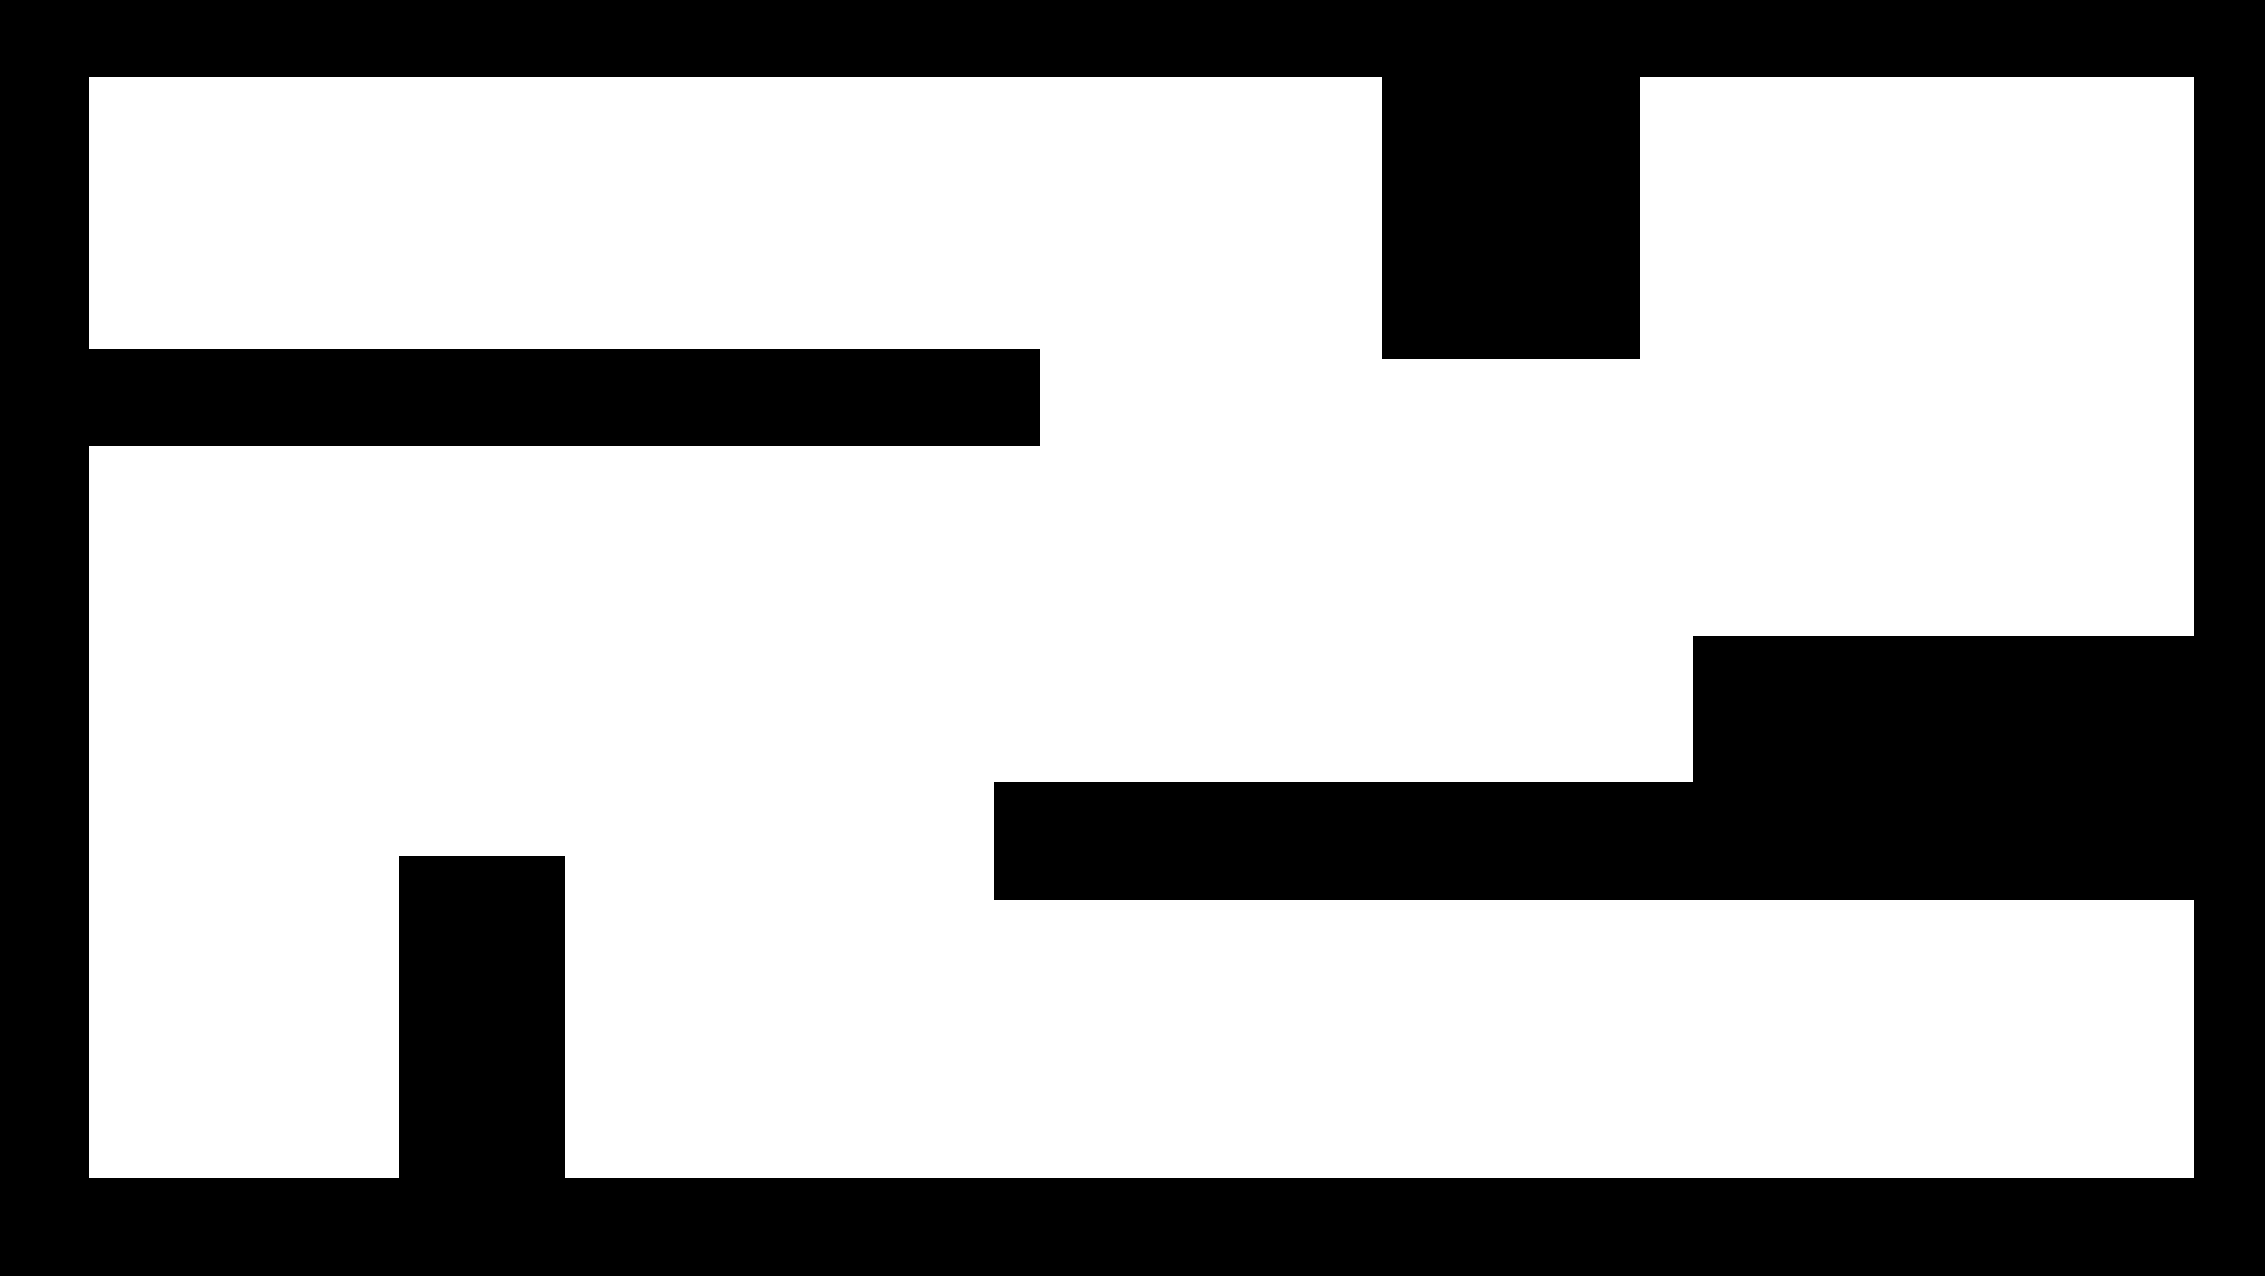
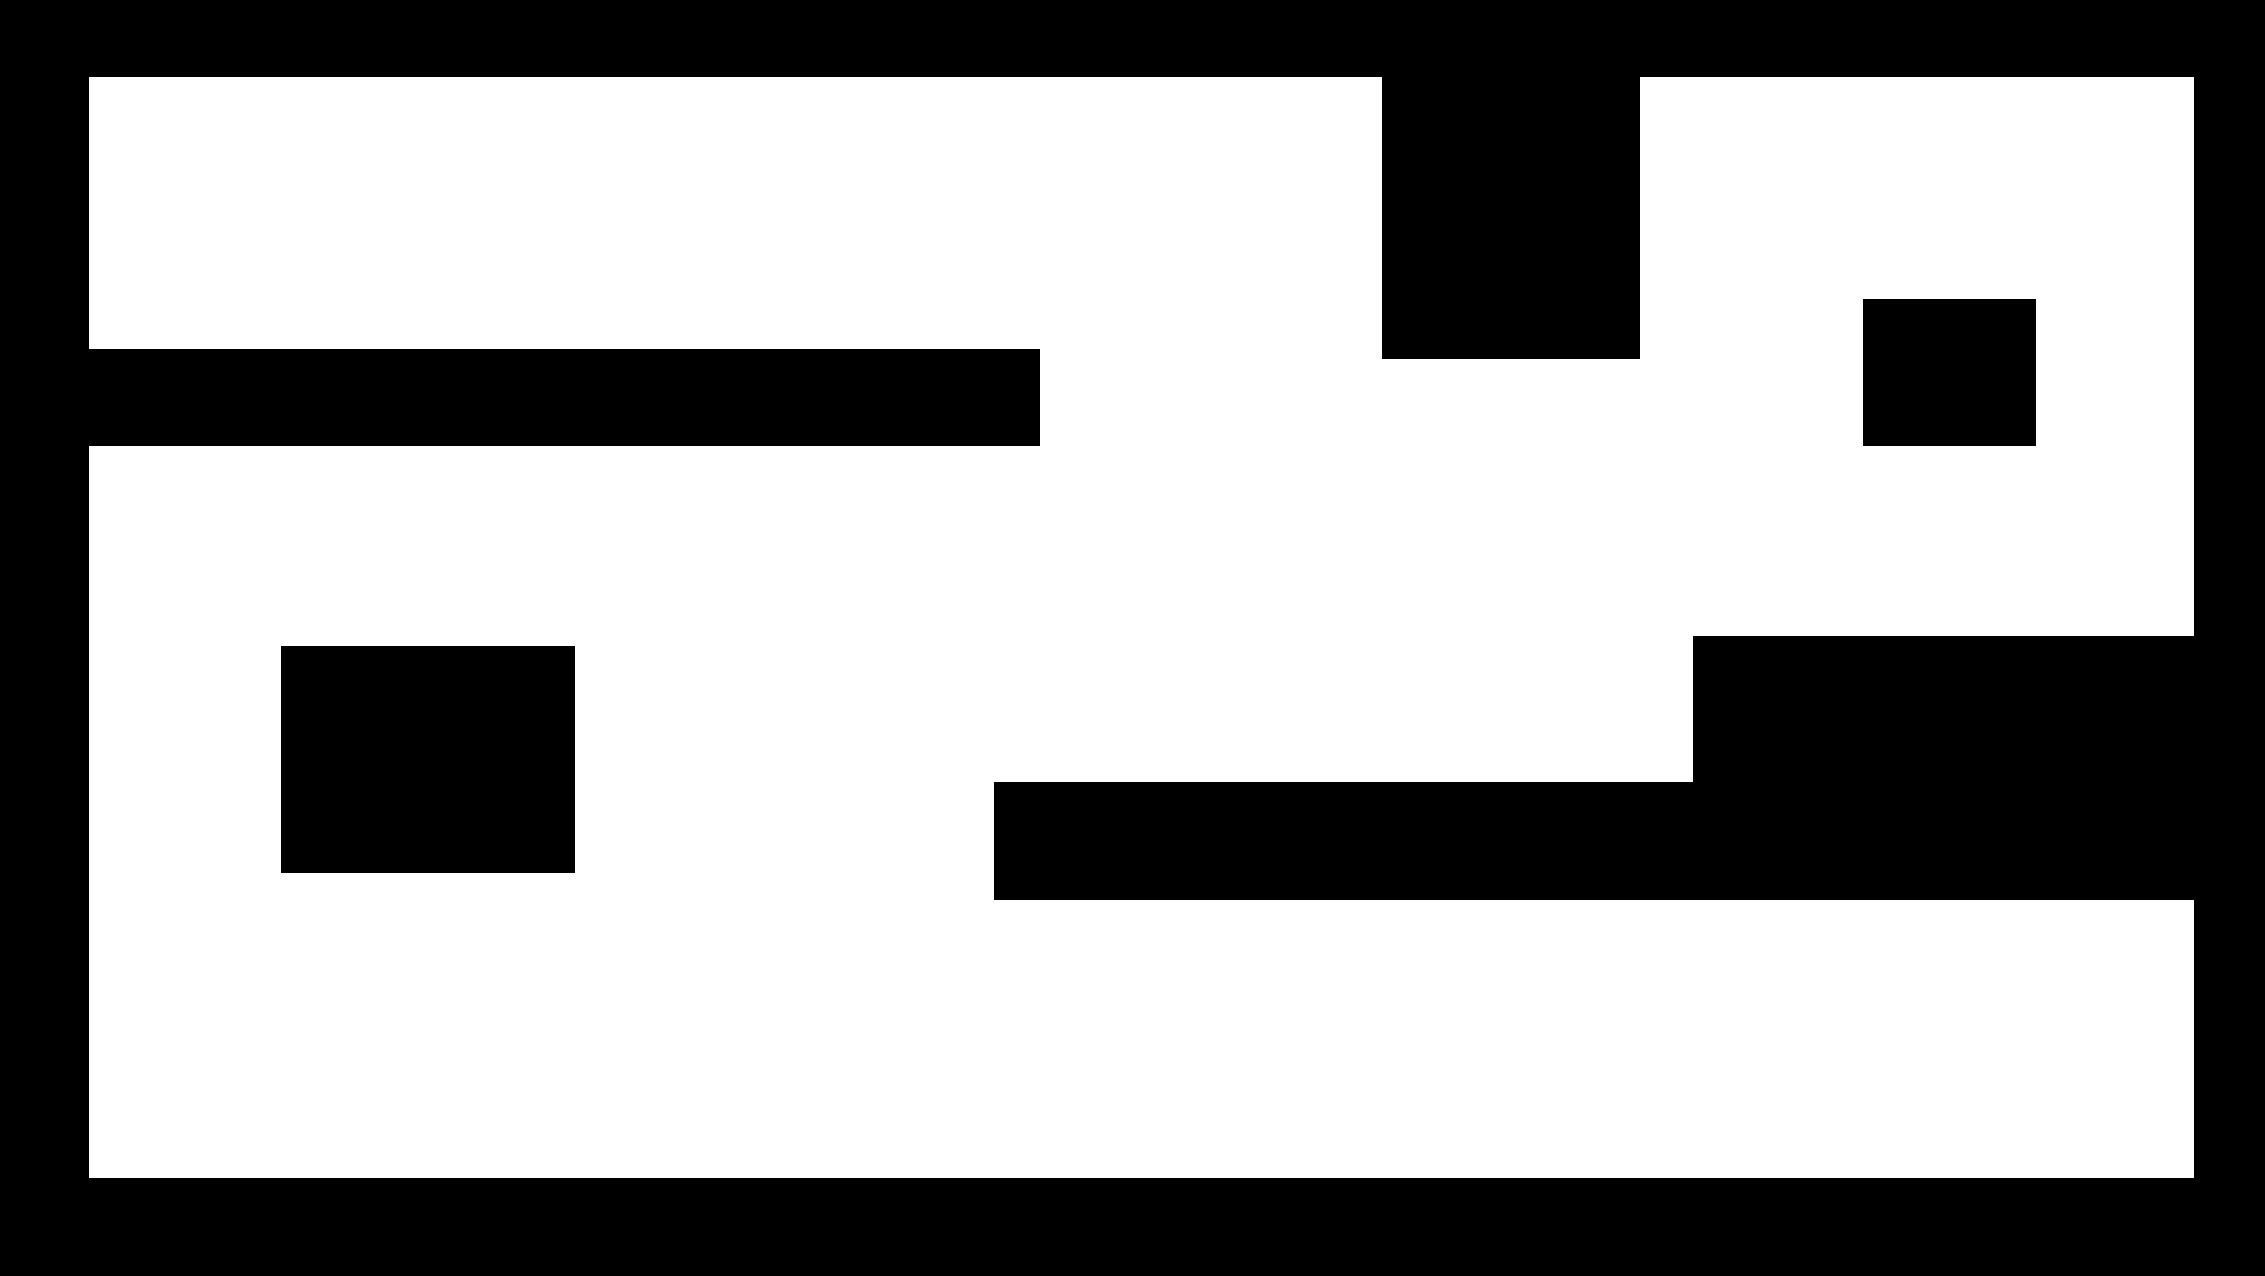
Added the landmarks for the new mazes

Changed region(s): [[0.1236, 0.489, 0.2781, 0.9475], [0.8035, 0.2139, 0.8962, 0.3668]]

diff --git a/environment.py b/environment.py
@@ -327,10 +327,14 @@ class Environment:
                 [48,252],
                 [48,443],
                 [48,663],
-                [225,663],
-                [225,482],
-                [316,482],
-                [316,661],
+                [158,491],
+                [158,360],
+                [323,364],
+                [323,489],
+                [1052,248],
+                [1052,166],
+                [1149,248],
+                [1149,168],
                 [555,665],
                 [560,505],
                 [560,439],
